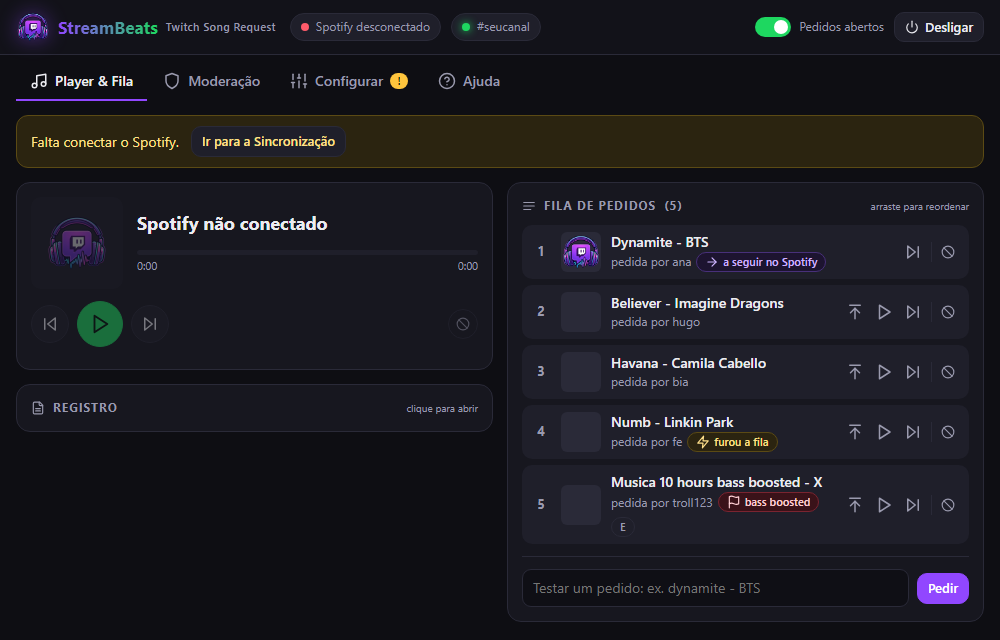
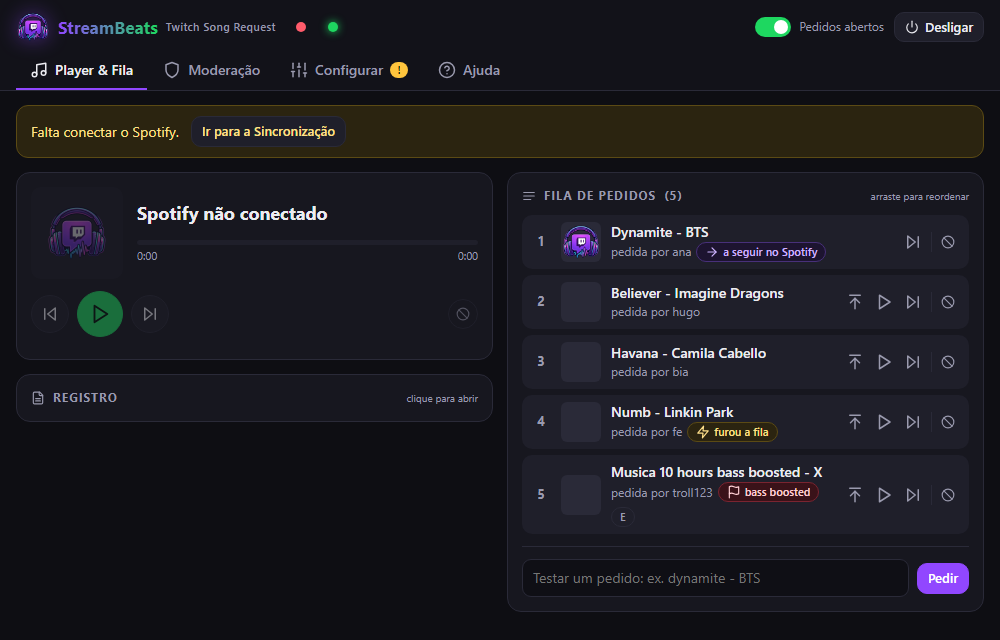
v1.0.1: painel mais compacto
- Topo numa linha só, com bolinhas de status e o texto ao passar o mouse
- Abas fixas no topo ao rolar a tela
- Moderação e Configurar sempre abertos (só a Sincronização minimiza)
- Janela do painel abre em 640 x 820
- Capturas do README atualizadas

diff --git a/painel.html b/painel.html
@@ -33,25 +33,38 @@
   .ic.p svg { width: 14px; height: 14px; }
   .ic.g svg { width: 22px; height: 22px; }
 
+  .topo { position: sticky; top: 0; z-index: 5; background: #121219; border-bottom: 1px solid var(--borda); }
   header {
     display: flex; align-items: center; gap: 10px; flex-wrap: wrap;
-    padding: 10px 16px; border-bottom: 1px solid var(--borda); background: #121219;
-    position: sticky; top: 0; z-index: 5;
+    padding: 10px 16px 6px; position: relative;
   }
   .logo { font-weight: 700; font-size: 17px; display: flex; align-items: center; gap: 8px; margin-right: 4px; }
   .logo img { display: block; filter: drop-shadow(0 0 10px rgba(145, 71, 255, .45)); }
   .logo span { background: linear-gradient(90deg, var(--roxo), var(--verde)); -webkit-background-clip: text; background-clip: text; color: transparent; }
   .logo small { font-size: 11px; font-weight: 600; color: var(--suave); letter-spacing: .03em; }
-  .pilula { display: inline-flex; align-items: center; gap: 7px; padding: 4px 10px; border-radius: 99px; background: var(--painel2); border: 1px solid var(--borda); font-size: 12px; color: var(--suave); max-width: 260px; }
-  .pilula span { white-space: nowrap; overflow: hidden; text-overflow: ellipsis; }
-  .pilula i { width: 8px; height: 8px; border-radius: 50%; background: var(--vermelho); display: inline-block; flex: none; }
+  /* status: só a bolinha; o texto aparece ao passar o mouse */
+  .pilula { position: relative; display: inline-grid; place-items: center; width: 22px; height: 22px; border-radius: 50%; cursor: help; }
+  .pilula:hover { background: var(--painel2); }
+  .pilula span { display: none; }
+  .pilula::after { content: attr(data-dica); position: absolute; top: calc(100% + 6px); left: 50%; transform: translateX(-50%); white-space: nowrap;
+    background: var(--painel2); border: 1px solid var(--borda); color: var(--texto); font-size: 12px; padding: 5px 9px; border-radius: 8px;
+    opacity: 0; pointer-events: none; transition: opacity .15s; z-index: 10; }
+  .pilula:hover::after { opacity: 1; }
+  .pilula i { width: 10px; height: 10px; border-radius: 50%; background: var(--vermelho); display: inline-block; flex: none; }
   .pilula.ok i { background: var(--verde); box-shadow: 0 0 8px var(--verde); }
   .pilula.meio i { background: var(--amarelo); }
   .espaco { flex: 1; }
-  .salvo { font-size: 12px; color: var(--verde); display: inline-flex; align-items: center; gap: 4px; opacity: 0; transition: opacity .3s; }
+  .salvo { position: absolute; right: 16px; top: calc(100% + 54px); z-index: 6; font-size: 12px; color: var(--verde); display: inline-flex; align-items: center; gap: 4px;
+    background: #0f2419; border: 1px solid #24563a; padding: 3px 9px; border-radius: 99px; opacity: 0; transition: opacity .3s; pointer-events: none; }
   .salvo.mostrar { opacity: 1; }
 
-  nav { display: flex; gap: 2px; padding: 8px 16px 0; overflow-x: auto; }
+  nav { display: flex; gap: 2px; padding: 2px 16px 0; overflow-x: auto; }
+  @media (max-width: 700px) { .logo small { display: none; } }
+  /* blocos sempre abertos (Moderação e Configurar) */
+  .bloco { background: var(--painel); border: 1px solid var(--borda); border-radius: 12px; padding: 12px 14px 4px; }
+  .bloco-titulo { display: flex; align-items: center; gap: 10px; font-weight: 600; margin-bottom: 10px; }
+  .bloco-titulo .desc { color: var(--suave); font-weight: 400; font-size: 12px; margin-left: auto; text-align: right; }
+  .bloco > .corpo { padding: 0 0 10px; }
   nav button { background: none; border: none; padding: 8px 14px; color: var(--suave); cursor: pointer; font-weight: 600; border-bottom: 2px solid transparent; white-space: nowrap; display: inline-flex; align-items: center; gap: 7px; }
   nav button.ativo { color: var(--texto); border-bottom-color: var(--roxo); }
   nav .bolinha { display: inline-block; min-width: 18px; padding: 0 5px; border-radius: 99px; background: var(--amarelo); color: #1a1400; font-size: 11px; text-align: center; }
@@ -141,7 +154,7 @@
   .check small { display: block; color: var(--suave); font-size: 12px; }
 
   /* sanfonas */
-  .sanfonas { display: flex; flex-direction: column; gap: 8px; }
+  .sanfonas { display: flex; flex-direction: column; gap: 12px; }
   details.sanfona { background: var(--painel); border: 1px solid var(--borda); border-radius: 12px; }
   details.sanfona > summary { list-style: none; cursor: pointer; display: flex; align-items: center; gap: 10px; padding: 11px 14px; font-weight: 600; user-select: none; }
   details.sanfona > summary::-webkit-details-marker { display: none; }
@@ -219,10 +232,11 @@
 </style>
 </head>
 <body>
+<div class="topo">
 <header>
   <div class="logo"><img src="/icone.png" alt="" width="34" height="34"><span>StreamBeats</span><small>Twitch Song Request</small></div>
-  <div class="pilula" id="pSpotify"><i></i><span>Spotify</span></div>
-  <div class="pilula" id="pChat"><i></i><span>Chat</span></div>
+  <div class="pilula" id="pSpotify" data-dica="Spotify"><i></i><span>Spotify</span></div>
+  <div class="pilula" id="pChat" data-dica="Chat"><i></i><span>Chat</span></div>
   <span class="salvo" id="salvoInd"><i class="ic p" data-ic="check"></i>salvo</span>
   <div class="espaco"></div>
   <button class="botao pequeno verde" id="btAtualizacao" hidden><i class="ic p" data-ic="download"></i><span></span></button>
@@ -238,6 +252,7 @@
   <button data-aba="config"><i class="ic" data-ic="sliders"></i>Configurar<span class="bolinha" id="bolSync" hidden>!</span></button>
   <button data-aba="ajuda"><i class="ic" data-ic="help"></i>Ajuda</button>
 </nav>
+</div>
 
 <main>
   <!-- ======================= PLAYER & FILA ======================= -->
@@ -295,17 +310,17 @@
   <!-- ======================= MODERAÇÃO ======================= -->
   <section class="aba" id="aba-moderacao">
     <div class="sanfonas">
-      <details class="sanfona" name="mod" open>
-        <summary><i class="ic" data-ic="usuarios"></i>Quem pode pedir<span class="desc">subs, aprovação, explícitas</span><i class="ic seta" data-ic="seta"></i></summary>
+      <section class="bloco">
+        <div class="bloco-titulo"><i class="ic" data-ic="usuarios"></i>Quem pode pedir<span class="desc">subs, aprovação, explícitas</span></div>
         <div class="corpo">
           <label class="check"><input type="checkbox" name="somente_subs_e_vips"><span>Só subs, VIPs e mods<small>Os outros recebem um aviso no chat.</small></span></label>
           <label class="check"><input type="checkbox" name="aprovar_pedidos"><span>Aprovar pedidos antes de tocar<small>Os pedidos esperam você aprovar na aba Player &amp; Fila. Pedidos de mods e de pontos do canal entram direto.</small></span></label>
           <label class="check"><input type="checkbox" name="bloquear_explicitas"><span>Bloquear músicas explícitas</span></label>
         </div>
-      </details>
+      </section>
 
-      <details class="sanfona" name="mod">
-        <summary><i class="ic" data-ic="relogio"></i>Limites<span class="desc" id="descLimites"></span><i class="ic seta" data-ic="seta"></i></summary>
+      <section class="bloco">
+        <div class="bloco-titulo"><i class="ic" data-ic="relogio"></i>Limites<span class="desc" id="descLimites"></span></div>
         <div class="corpo">
           <div class="campos2">
             <label class="campo"><span>Espera entre pedidos (s)</span><input type="number" name="cooldown_segundos" min="0"><small>Mods não esperam.</small></label>
@@ -316,10 +331,10 @@
             <label class="campo"><span>Votos para pular</span><input type="number" name="votos_para_pular" min="0"><small>!voteskip · 0 = desligado</small></label>
           </div>
         </div>
-      </details>
+      </section>
 
-      <details class="sanfona" name="mod">
-        <summary><i class="ic" data-ic="volume"></i>Volume, earrape e furar fila<span class="desc">comandos do chat</span><i class="ic seta" data-ic="seta"></i></summary>
+      <section class="bloco">
+        <div class="bloco-titulo"><i class="ic" data-ic="volume"></i>Volume, earrape e furar fila<span class="desc">comandos do chat</span></div>
         <div class="corpo">
           <div class="campos2">
             <label class="campo"><span>Quem muda o volume</span>
@@ -334,30 +349,30 @@
             <label class="campo"><span>Espera pra furar fila (min)</span><input type="number" name="furarfila_espera_minutos" min="0"><small>Por pessoa. Mods não esperam.</small></label>
           </div>
         </div>
-      </details>
+      </section>
 
-      <details class="sanfona" name="mod">
-        <summary><i class="ic" data-ic="bandeira"></i>Bandeira vermelha<span class="desc">avisa, mas deixa entrar</span><i class="ic seta" data-ic="seta"></i></summary>
+      <section class="bloco">
+        <div class="bloco-titulo"><i class="ic" data-ic="bandeira"></i>Bandeira vermelha<span class="desc">avisa, mas deixa entrar</span></div>
         <div class="corpo">
           <p class="dica" style="margin-top:0">A música <b>entra na fila</b>, mas aparece marcada pra você decidir. Passe o mouse na bandeira pra ver o motivo.</p>
           <label class="campo"><span>Termos que acendem a bandeira</span><textarea name="palavras_alerta" placeholder="Um por linha" style="min-height:100px"></textarea></label>
         </div>
-      </details>
+      </section>
 
-      <details class="sanfona" name="mod">
-        <summary><i class="ic" data-ic="ban"></i>Bloqueios<span class="desc">nem entram na fila</span><i class="ic seta" data-ic="seta"></i></summary>
+      <section class="bloco">
+        <div class="bloco-titulo"><i class="ic" data-ic="ban"></i>Bloqueios<span class="desc">nem entram na fila</span></div>
         <div class="corpo">
           <div class="campos2" style="grid-template-columns:repeat(auto-fill,minmax(240px,1fr))">
             <label class="campo"><span>Músicas / artistas com estes termos</span><textarea name="palavras_bloqueadas" placeholder="Um por linha"></textarea></label>
             <label class="campo"><span>Usuários bloqueados</span><textarea name="usuarios_bloqueados" placeholder="Um por linha"></textarea></label>
           </div>
         </div>
-      </details>
+      </section>
 
-      <details class="sanfona" name="mod">
-        <summary><i class="ic" data-ic="ban"></i>Músicas banidas<span class="desc" id="qtdBan"></span><i class="ic seta" data-ic="seta"></i></summary>
+      <section class="bloco">
+        <div class="bloco-titulo"><i class="ic" data-ic="ban"></i>Músicas banidas<span class="desc" id="qtdBan"></span></div>
         <div class="corpo"><ul class="fila" id="banidas"></ul></div>
-      </details>
+      </section>
     </div>
   </section>
 
@@ -437,8 +452,8 @@
     </details>
 
     <div class="sanfonas">
-      <details class="sanfona" name="cfg" id="secOverlay">
-        <summary><i class="ic" data-ic="monitor"></i>Overlay no OBS<span class="desc">a música aparecendo na live</span><i class="ic seta" data-ic="seta"></i></summary>
+      <section class="bloco" id="secOverlay">
+        <div class="bloco-titulo"><i class="ic" data-ic="monitor"></i>Overlay no OBS<span class="desc">a música aparecendo na live</span></div>
         <div class="corpo" id="overlayCorpo">
           <p class="dica" style="margin-top:0">No OBS: <b>Fontes → + → Navegador</b>, cole o link e use o tamanho indicado.</p>
           <div class="opcoes-overlay">
@@ -457,10 +472,10 @@
           </div>
           <label class="check"><input type="checkbox" id="overlayDireita"><span>Alinhar à direita<small>Muda os dois links. Copie de novo depois de marcar.</small></span></label>
         </div>
-      </details>
+      </section>
 
-      <details class="sanfona" name="cfg" id="secPontos">
-        <summary><i class="ic" data-ic="presente"></i>Pontos do canal<span class="desc" id="descPontos">pedido, furar fila e earrape</span><i class="ic seta" data-ic="seta"></i></summary>
+      <section class="bloco" id="secPontos">
+        <div class="bloco-titulo"><i class="ic" data-ic="presente"></i>Pontos do canal<span class="desc" id="descPontos">pedido, furar fila e earrape</span></div>
         <div class="corpo">
           <div id="pontosApi"></div>
           <details class="passos-box" id="pontosManual">
@@ -474,10 +489,10 @@
             <div id="pontosManualLista"></div>
           </details>
         </div>
-      </details>
+      </section>
 
-      <details class="sanfona" name="cfg">
-        <summary><i class="ic" data-ic="disco"></i>Histórico da live<span class="desc" id="descHist"></span><i class="ic seta" data-ic="seta"></i></summary>
+      <section class="bloco">
+        <div class="bloco-titulo"><i class="ic" data-ic="disco"></i>Histórico da live<span class="desc" id="descHist"></span></div>
         <div class="corpo">
           <div class="estado-con" id="histEstado">Nenhuma música ainda.</div>
           <div class="linha">
@@ -486,10 +501,10 @@
           </div>
           <small class="dica" id="histDica"></small>
         </div>
-      </details>
+      </section>
 
-      <details class="sanfona" name="cfg">
-        <summary><i class="ic" data-ic="chat"></i>Nomes dos comandos<span class="desc">!sr, !song, !fila...</span><i class="ic seta" data-ic="seta"></i></summary>
+      <section class="bloco">
+        <div class="bloco-titulo"><i class="ic" data-ic="chat"></i>Nomes dos comandos<span class="desc">!sr, !song, !fila...</span></div>
         <div class="corpo">
           <p class="dica" style="margin-top:0">Separe por vírgula. Ex.: <code>!sr, !música</code></p>
           <div class="campos2">
@@ -508,12 +523,12 @@
             <label class="campo"><span>Fechar pedidos (mods)</span><input type="text" data-cmd="fechar"></label>
           </div>
         </div>
-      </details>
+      </section>
 
-      <details class="sanfona" name="cfg" id="secAtualizacoes">
-        <summary><i class="ic" data-ic="download"></i>Atualizações<span class="desc" id="descVersao"></span><i class="ic seta" data-ic="seta"></i></summary>
+      <section class="bloco" id="secAtualizacoes">
+        <div class="bloco-titulo"><i class="ic" data-ic="download"></i>Atualizações<span class="desc" id="descVersao"></span></div>
         <div class="corpo" id="atualizacoesCorpo"></div>
-      </details>
+      </section>
     </div>
   </section>
 
@@ -944,11 +959,13 @@ function desenhar() {
   const sp = $('#pSpotify');
   sp.className = 'pilula ' + (conectado ? (e.spotify.aparelho ? 'ok' : 'meio') : '');
   sp.querySelector('span').textContent = conectado ? 'Spotify: ' + (e.spotify.aparelho || 'sem aparelho tocando') : 'Spotify desconectado';
+  sp.dataset.dica = sp.querySelector('span').textContent;
   const ch = $('#pChat');
   ch.className = 'pilula ' + (e.chat.conectado ? 'ok' : e.chat.canal ? 'meio' : '');
   ch.querySelector('span').textContent = e.chat.canal
     ? (e.chat.conectado ? '#' + e.chat.canal + (e.chat.respondendoComo ? ' · respondendo' : '') : 'Conectando a #' + e.chat.canal + '...')
     : 'Sem canal';
+  ch.dataset.dica = ch.querySelector('span').textContent;
   $('#abertos').checked = e.pedidosAbertos;
   $('#abertosTxt').textContent = e.pedidosAbertos ? 'Pedidos abertos' : 'Pedidos fechados';
 

diff --git a/streambeats.js b/streambeats.js
@@ -23,7 +23,7 @@ let sea = null;
 try { sea = require('node:sea'); } catch { /* Node antigo */ }
 const EH_EXE = !!(sea && sea.isSea && sea.isSea());
 
-const VERSAO = '1.0.0';
+const VERSAO = '1.0.1';
 // Repositório do GitHub de onde o app baixa atualizações ("usuario/repositorio").
 // Vazio = atualização automática desligada.
 const GITHUB_REPO = 'stuwnado/StreamBeats-TwitchSongRequest';
@@ -191,7 +191,7 @@ function abrirPainel() {
     ].find((p) => fs.existsSync(p));
     if (edge) {
       // modo "app": abre como uma janela de programa, sem barra de endereço
-      spawn(edge, ['--app=' + URL_PAINEL, '--window-size=1000,820'], { detached: true, stdio: 'ignore' }).unref();
+      spawn(edge, ['--app=' + URL_PAINEL, '--window-size=640,820'], { detached: true, stdio: 'ignore' }).unref();
       return;
     }
   }

diff --git a/docs/historico-de-pedidos.md b/docs/historico-de-pedidos.md
@@ -22,3 +22,7 @@ Mudanças pedidas durante os testes. Lote 1 (itens 1 a 18) feito em 21/11/2026. 
 | 16 | ~~Pular pelo próprio Spotify vai pro próximo pedido.~~ **Cancelado:** fica como está, pra o streamer ter liberdade de pôr as próprias músicas pelo app do Spotify. | ❌ cancelado |
 | 17 | **"Pedida por" mais legível**, no overlay e no painel: sem negrito, sem o emoji, com cor e fundo que dão pra ler bem (hoje é branco em negrito sobre rosa). | ✅ feito |
 | 18 | **Ícones de verdade no lugar dos emojis** em todo o painel e overlay (play, pausa, pular, voltar, banir, tirar da fila, topo, volume, abas etc.), todos no mesmo estilo. Usar o conjunto **Lucide** (gratuito, licença ISC, pode usar no GitHub), embutido no app (funciona sem internet), com o aviso de licença no projeto. | ✅ feito |
+| 19 | **Desfazer as sanfonas.** Não gostou do formato de minimizar, nem de abrir uma e as outras fecharem sozinhas. A aba Moderação volta a mostrar tudo aberto, em cartões. Na aba Configurar também volta tudo aberto; só o quadro Sincronização continua minimizável. | ✅ feito (v1.0.1) |
+| 20 | **Tamanho padrão da janela** igual ao do print (estreita e alta, uns 640 × 820). | ✅ feito (v1.0.1) |
+| 21 | **Topo numa linha só.** Spotify e chat viram só a bolinha (amarela/verde/vermelha), e o texto aparece só ao passar o mouse em cima. Assim o "Pedidos abertos" e o "Desligar" cabem na mesma linha do logo. | ✅ feito (v1.0.1) |
+| 22 | **Abas fixas no topo.** "Player & Fila / Moderação / Configurar / Ajuda" ficam presas em cima ao rolar a tela, junto com o topo. | ✅ feito (v1.0.1) |

diff --git a/CHANGELOG.md b/CHANGELOG.md
@@ -1,5 +1,15 @@
 # Histórico de versões
 
+## v1.0.1 (2026-11-21)
+
+Painel mais compacto.
+
+- Topo numa linha só: Spotify e chat viram bolinhas de status, e o texto aparece ao passar o mouse.
+- As abas ficam presas no topo quando você rola a tela.
+- Moderação e Configurar voltam a mostrar tudo aberto. Só o quadro de Sincronização continua minimizável.
+- A janela do painel abre no tamanho 640 × 820.
+- Os scripts de build sempre leem o código em UTF-8, pra não estragar os acentos.
+
 ## v1.0.0 (2026-11-21)
 
 Primeira versão pública.
